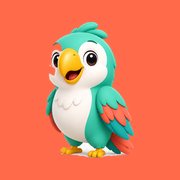
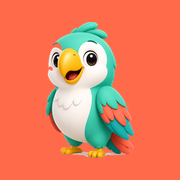
feat: tema dark/light manual + hero por capas y mascota estática
- Tema claro/oscuro/sistema con toggle (store zustand + provider + script anti-flash)
- Paleta por clase .dark (soporta ambos modos manualmente)
- ThemeToggle en landing, sidebar y perfil
- Mascota ahora estática (sin flotado) y cutout con cara intacta
- Hero rediseñado: mascota grande DETRÁS del texto (capas + escala)
- Iconos PWA regenerados desde la mascota limpia

Changed region(s): [[0.25, 0.25, 0.3611, 0.4444], [0.3889, 0.7778, 0.5278, 0.8889], [0.5556, 0.8056, 0.6944, 0.8889]]

diff --git a/app/page.tsx b/app/page.tsx
@@ -17,6 +17,7 @@ import { GradientText } from "@/components/ui/gradient-text";
 import { Button } from "@/components/ui/button";
 import { Card } from "@/components/ui/card";
 import { Mascot } from "@/components/ui/mascot";
+import { ThemeToggle } from "@/components/ui/theme-toggle";
 import { rise, spring, stagger } from "@/lib/motion";
 
 export default function Home() {
@@ -48,7 +49,8 @@ function Nav() {
       <nav className="mx-auto flex max-w-6xl items-center justify-between px-5 py-3.5">
         <Wordmark />
         <div className="flex items-center gap-2">
-          <Button href="/login" variant="secondary" size="sm">
+          <ThemeToggle className="px-2.5" />
+          <Button href="/login" variant="secondary" size="sm" className="hidden sm:inline-flex">
             Entrar
           </Button>
           <Button href="/registro" size="sm" shimmer>
@@ -66,18 +68,24 @@ function Hero() {
   const opacity = useTransform(scrollY, [0, 420], [1, 0.35]);
 
   return (
-    <AuroraBackground className="px-5 py-20 sm:py-28">
+    <AuroraBackground className="relative px-5 pb-16 pt-6 sm:pb-24 sm:pt-10">
+      {/* Mascota grande, detrás del texto (capas + escala) */}
+      <div className="pointer-events-none absolute inset-x-0 top-2 z-0 flex justify-center sm:top-0">
+        <Mascot
+          height={340}
+          glow
+          priority
+          imgClassName="h-[190px] w-auto drop-shadow-xl sm:h-[300px]"
+        />
+      </div>
+
       <motion.div
         initial="hidden"
         animate="show"
         variants={stagger}
         style={{ y, opacity }}
-        className="mx-auto flex max-w-3xl flex-col items-center text-center"
+        className="relative z-10 mx-auto flex max-w-3xl flex-col items-center pt-40 text-center sm:pt-56"
       >
-        <motion.div variants={rise}>
-          <Mascot height={168} float glow priority className="mb-3" />
-        </motion.div>
-
         <motion.span
           variants={rise}
           className="mb-6 inline-flex items-center gap-2 rounded-pill border border-border bg-surface/70 px-4 py-1.5 text-sm font-semibold text-muted backdrop-blur"

diff --git a/components/ui/mascot.tsx b/components/ui/mascot.tsx
@@ -1,28 +1,29 @@
-"use client";
-
 import Image from "next/image";
-import { motion } from "framer-motion";
 import mascot from "@/public/brand/mascot.png";
 import { cn } from "@/lib/utils";
 
 const RATIO = mascot.width / mascot.height;
 
-/** Loro mascota de Parlo. `float` le da un flotado suave; `glow` un halo detrás. */
+/**
+ * Loro mascota de Parlo (estática). `glow` pinta un halo detrás.
+ * `height` fija la relación de aspecto; usa `imgClassName` (ej. h-[200px] w-auto sm:h-[320px])
+ * para tamaños responsive.
+ */
 export function Mascot({
   height = 160,
-  float = false,
   glow = false,
   priority = false,
   className,
+  imgClassName,
 }: {
   height?: number;
-  float?: boolean;
   glow?: boolean;
   priority?: boolean;
   className?: string;
+  imgClassName?: string;
 }) {
-  const img = (
-    <div className="relative">
+  return (
+    <div className={cn("relative", className)}>
       {glow && (
         <div
           aria-hidden
@@ -37,20 +38,8 @@ export function Mascot({
         width={Math.round(height * RATIO)}
         priority={priority}
         draggable={false}
-        className="select-none"
+        className={cn("select-none", imgClassName)}
       />
     </div>
-  );
-
-  if (!float) return <div className={className}>{img}</div>;
-
-  return (
-    <motion.div
-      className={cn("will-change-transform", className)}
-      animate={{ y: [0, -12, 0] }}
-      transition={{ duration: 4, repeat: Infinity, ease: "easeInOut" }}
-    >
-      {img}
-    </motion.div>
   );
 }

diff --git a/components/ui/theme-toggle.tsx b/components/ui/theme-toggle.tsx
@@ -1,0 +1,54 @@
+"use client";
+
+import { useEffect, useState } from "react";
+import {
+  IconDeviceDesktop,
+  IconMoon,
+  IconSun,
+  type Icon,
+} from "@tabler/icons-react";
+import { useTheme, type Theme } from "@/lib/theme";
+import { cn } from "@/lib/utils";
+
+const icons: Record<Theme, Icon> = {
+  light: IconSun,
+  dark: IconMoon,
+  system: IconDeviceDesktop,
+};
+const labels: Record<Theme, string> = {
+  light: "Claro",
+  dark: "Oscuro",
+  system: "Sistema",
+};
+
+/** Botón que cicla claro → oscuro → sistema. */
+export function ThemeToggle({
+  showLabel = false,
+  className,
+}: {
+  showLabel?: boolean;
+  className?: string;
+}) {
+  const theme = useTheme((s) => s.theme);
+  const cycle = useTheme((s) => s.cycle);
+  const [mounted, setMounted] = useState(false);
+  useEffect(() => setMounted(true), []);
+
+  const current: Theme = mounted ? theme : "system";
+  const Icon = icons[current];
+
+  return (
+    <button
+      type="button"
+      onClick={cycle}
+      aria-label={`Tema: ${labels[current]}. Cambiar`}
+      className={cn(
+        "inline-flex items-center gap-2 rounded-pill border border-border bg-surface px-3 py-2 text-sm font-semibold text-fg transition-colors hover:border-primary",
+        className,
+      )}
+    >
+      <Icon className="size-5 text-primary" />
+      {showLabel && <span>{labels[current]}</span>}
+    </button>
+  );
+}

diff --git a/app/globals.css b/app/globals.css
@@ -53,31 +53,29 @@
   --gradient-gem: linear-gradient(120deg, #ffc94a, #ffe58a);
 }
 
-@media (prefers-color-scheme: dark) {
-  :root {
-    --bg: #140e24;
-    --surface: #1c1436;
-    --card: #251b45;
-    --border: #322657;
-    --fg: #ffffff;
-    --muted: #b3acc8;
+.dark {
+  --bg: #140e24;
+  --surface: #1c1436;
+  --card: #251b45;
+  --border: #322657;
+  --fg: #ffffff;
+  --muted: #b3acc8;
 
-    --primary: #ff7a5c;
-    --primary-fg: #1b1233;
-    --primary-hover: #ff8f75;
-    --primary-soft: #3a2136;
-    --secondary: #ff9a7b;
-    --accent: #39d8ba;
-    --accent-soft: #103a38;
-    --gem: #ffd567;
-    --success: #34c58b;
-    --warning: #ffc061;
-    --danger: #ff7076;
+  --primary: #ff7a5c;
+  --primary-fg: #1b1233;
+  --primary-hover: #ff8f75;
+  --primary-soft: #3a2136;
+  --secondary: #ff9a7b;
+  --accent: #39d8ba;
+  --accent-soft: #103a38;
+  --gem: #ffd567;
+  --success: #34c58b;
+  --warning: #ffc061;
+  --danger: #ff7076;
 
-    --gradient-primary: linear-gradient(90deg, #ff7a5c, #ff9a7b);
-    --gradient-ai: linear-gradient(135deg, #39d8ba, #6de6d0);
-    --gradient-gem: linear-gradient(120deg, #ffd567, #ffe58a);
-  }
+  --gradient-primary: linear-gradient(90deg, #ff7a5c, #ff9a7b);
+  --gradient-ai: linear-gradient(135deg, #39d8ba, #6de6d0);
+  --gradient-gem: linear-gradient(120deg, #ffd567, #ffe58a);
 }
 
 * {

diff --git a/app/layout.tsx b/app/layout.tsx
@@ -2,6 +2,7 @@ import type { Metadata, Viewport } from "next";
 import { Montserrat, Nunito } from "next/font/google";
 import "./globals.css";
 import RegisterPWA from "./register-pwa";
+import { ThemeProvider } from "@/components/theme-provider";
 
 const montserrat = Montserrat({
   variable: "--font-montserrat",
@@ -52,10 +53,17 @@ export default function RootLayout({
     <html
       lang="es"
       data-scroll-behavior="smooth"
+      suppressHydrationWarning
       className={`${montserrat.variable} ${nunito.variable} h-full antialiased`}
     >
       <body className="min-h-full">
+        <script
+          dangerouslySetInnerHTML={{
+            __html: `try{var s=localStorage.getItem('parlo-theme');var t=s?JSON.parse(s).state.theme:'system';var d=t==='dark'||((t==='system'||!t)&&matchMedia('(prefers-color-scheme:dark)').matches);document.documentElement.classList.toggle('dark',d);}catch(e){}`,
+          }}
+        />
         <RegisterPWA />
+        <ThemeProvider />
         {children}
       </body>
     </html>

diff --git a/lib/theme.ts b/lib/theme.ts
@@ -1,0 +1,33 @@
+import { create } from "zustand";
+import { createJSONStorage, persist } from "zustand/middleware";
+
+export type Theme = "light" | "dark" | "system";
+
+type ThemeState = {
+  theme: Theme;
+  setTheme: (t: Theme) => void;
+  cycle: () => void;
+};
+
+export const useTheme = create<ThemeState>()(
+  persist(
+    (set, get) => ({
+      theme: "system",
+      setTheme: (t) => set({ theme: t }),
+      cycle: () => {
+        const order: Theme[] = ["light", "dark", "system"];
+        set({ theme: order[(order.indexOf(get().theme) + 1) % order.length] });
+      },
+    }),
+    { name: "parlo-theme", storage: createJSONStorage(() => localStorage) },
+  ),
+);
+
+/** Aplica la clase `dark` en <html> según el tema (resolviendo `system`). */
+export function applyTheme(theme: Theme) {
+  const dark =
+    theme === "dark" ||
+    (theme === "system" &&
+      window.matchMedia("(prefers-color-scheme: dark)").matches);
+  document.documentElement.classList.toggle("dark", dark);
+}

diff --git a/app/app/perfil/page.tsx b/app/app/perfil/page.tsx
@@ -11,6 +11,7 @@ import {
 import { useAuth } from "@/lib/auth";
 import { Button } from "@/components/ui/button";
 import { Card } from "@/components/ui/card";
+import { ThemeToggle } from "@/components/ui/theme-toggle";
 import { spring } from "@/lib/motion";
 
 export default function PerfilPage() {
@@ -44,10 +45,15 @@ export default function PerfilPage() {
         <StatCard icon={IconTrophy} value="4" label="Logros" tint="text-accent" />
       </div>
 
+      <div className="mt-8">
+        <p className="mb-2 text-sm font-semibold text-muted">Apariencia</p>
+        <ThemeToggle showLabel className="w-full justify-center" />
+      </div>
+
       <Button
         variant="danger"
         fullWidth
-        className="mt-10"
+        className="mt-4"
         onClick={() => {
           logout();
           router.replace("/");

diff --git a/components/theme-provider.tsx b/components/theme-provider.tsx
@@ -1,0 +1,24 @@
+"use client";
+
+import { useEffect } from "react";
+import { applyTheme, useTheme } from "@/lib/theme";
+
+/** Sincroniza el tema elegido con la clase `dark` y escucha cambios del sistema. */
+export function ThemeProvider() {
+  const theme = useTheme((s) => s.theme);
+
+  useEffect(() => {
+    applyTheme(theme);
+  }, [theme]);
+
+  useEffect(() => {
+    const mq = window.matchMedia("(prefers-color-scheme: dark)");
+    const onChange = () => {
+      if (useTheme.getState().theme === "system") applyTheme("system");
+    };
+    mq.addEventListener("change", onChange);
+    return () => mq.removeEventListener("change", onChange);
+  }, []);
+
+  return null;
+}

diff --git a/components/app/sidebar.tsx b/components/app/sidebar.tsx
@@ -10,6 +10,7 @@ import {
   IconUser,
   type Icon,
 } from "@tabler/icons-react";
+import { ThemeToggle } from "@/components/ui/theme-toggle";
 import { cn } from "@/lib/utils";
 
 const items: { href: string; label: string; icon: Icon }[] = [
@@ -66,6 +67,10 @@ export function Sidebar() {
           );
         })}
       </nav>
+
+      <div className="mt-auto">
+        <ThemeToggle showLabel className="w-full justify-start" />
+      </div>
     </aside>
   );
 }

diff --git a/components/auth/auth-form.tsx b/components/auth/auth-form.tsx
@@ -43,7 +43,7 @@ export function AuthForm({ mode }: { mode: "login" | "signup" }) {
     >
       <div className="mb-8 text-center">
         <div className="mb-3 flex justify-center">
-          <Mascot height={108} float />
+          <Mascot height={108} />
         </div>
         <h1 className="font-display text-2xl font-extrabold tracking-tight">
           {isLogin ? "Bienvenido de vuelta" : "Crea tu cuenta"}

diff --git a/app/app/tutor/page.tsx b/app/app/tutor/page.tsx
@@ -111,7 +111,7 @@ function EmptyState({ onPick }: { onPick: (t: string) => void }) {
       className="rounded-3xl border border-border bg-card p-6 text-center"
     >
       <div className="mb-1 flex justify-center">
-        <Mascot height={116} float />
+        <Mascot height={116} />
       </div>
       <h2 className="mt-2 font-display text-lg font-bold">
         ¡Practiquemos inglés!
